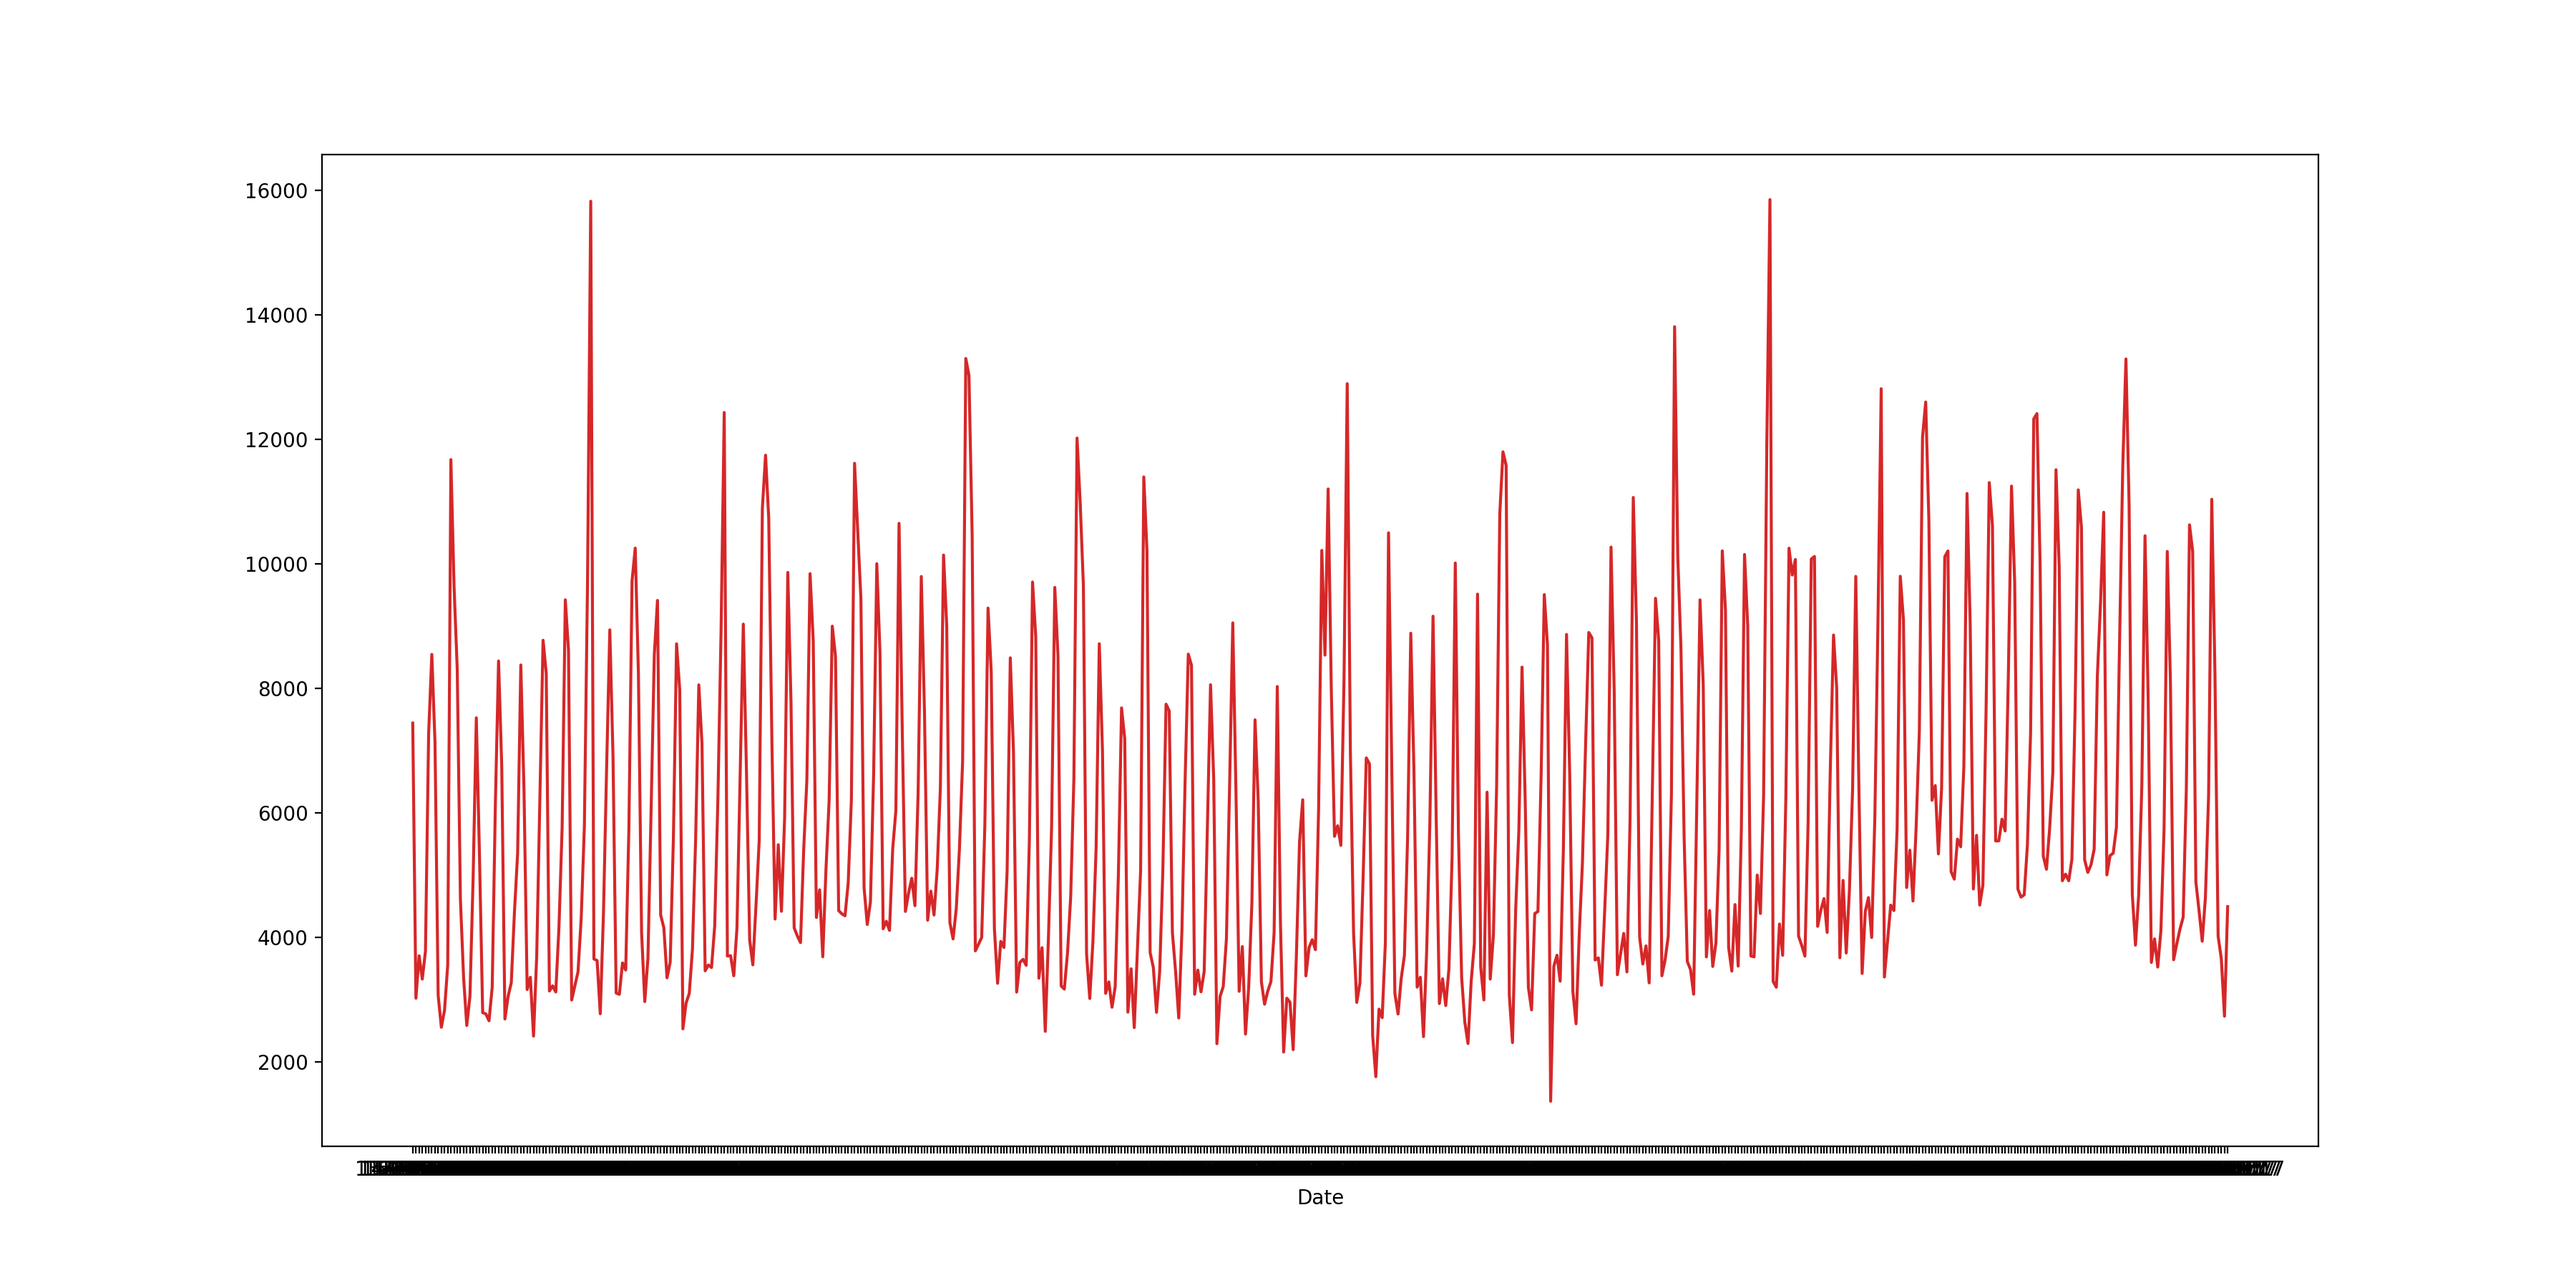
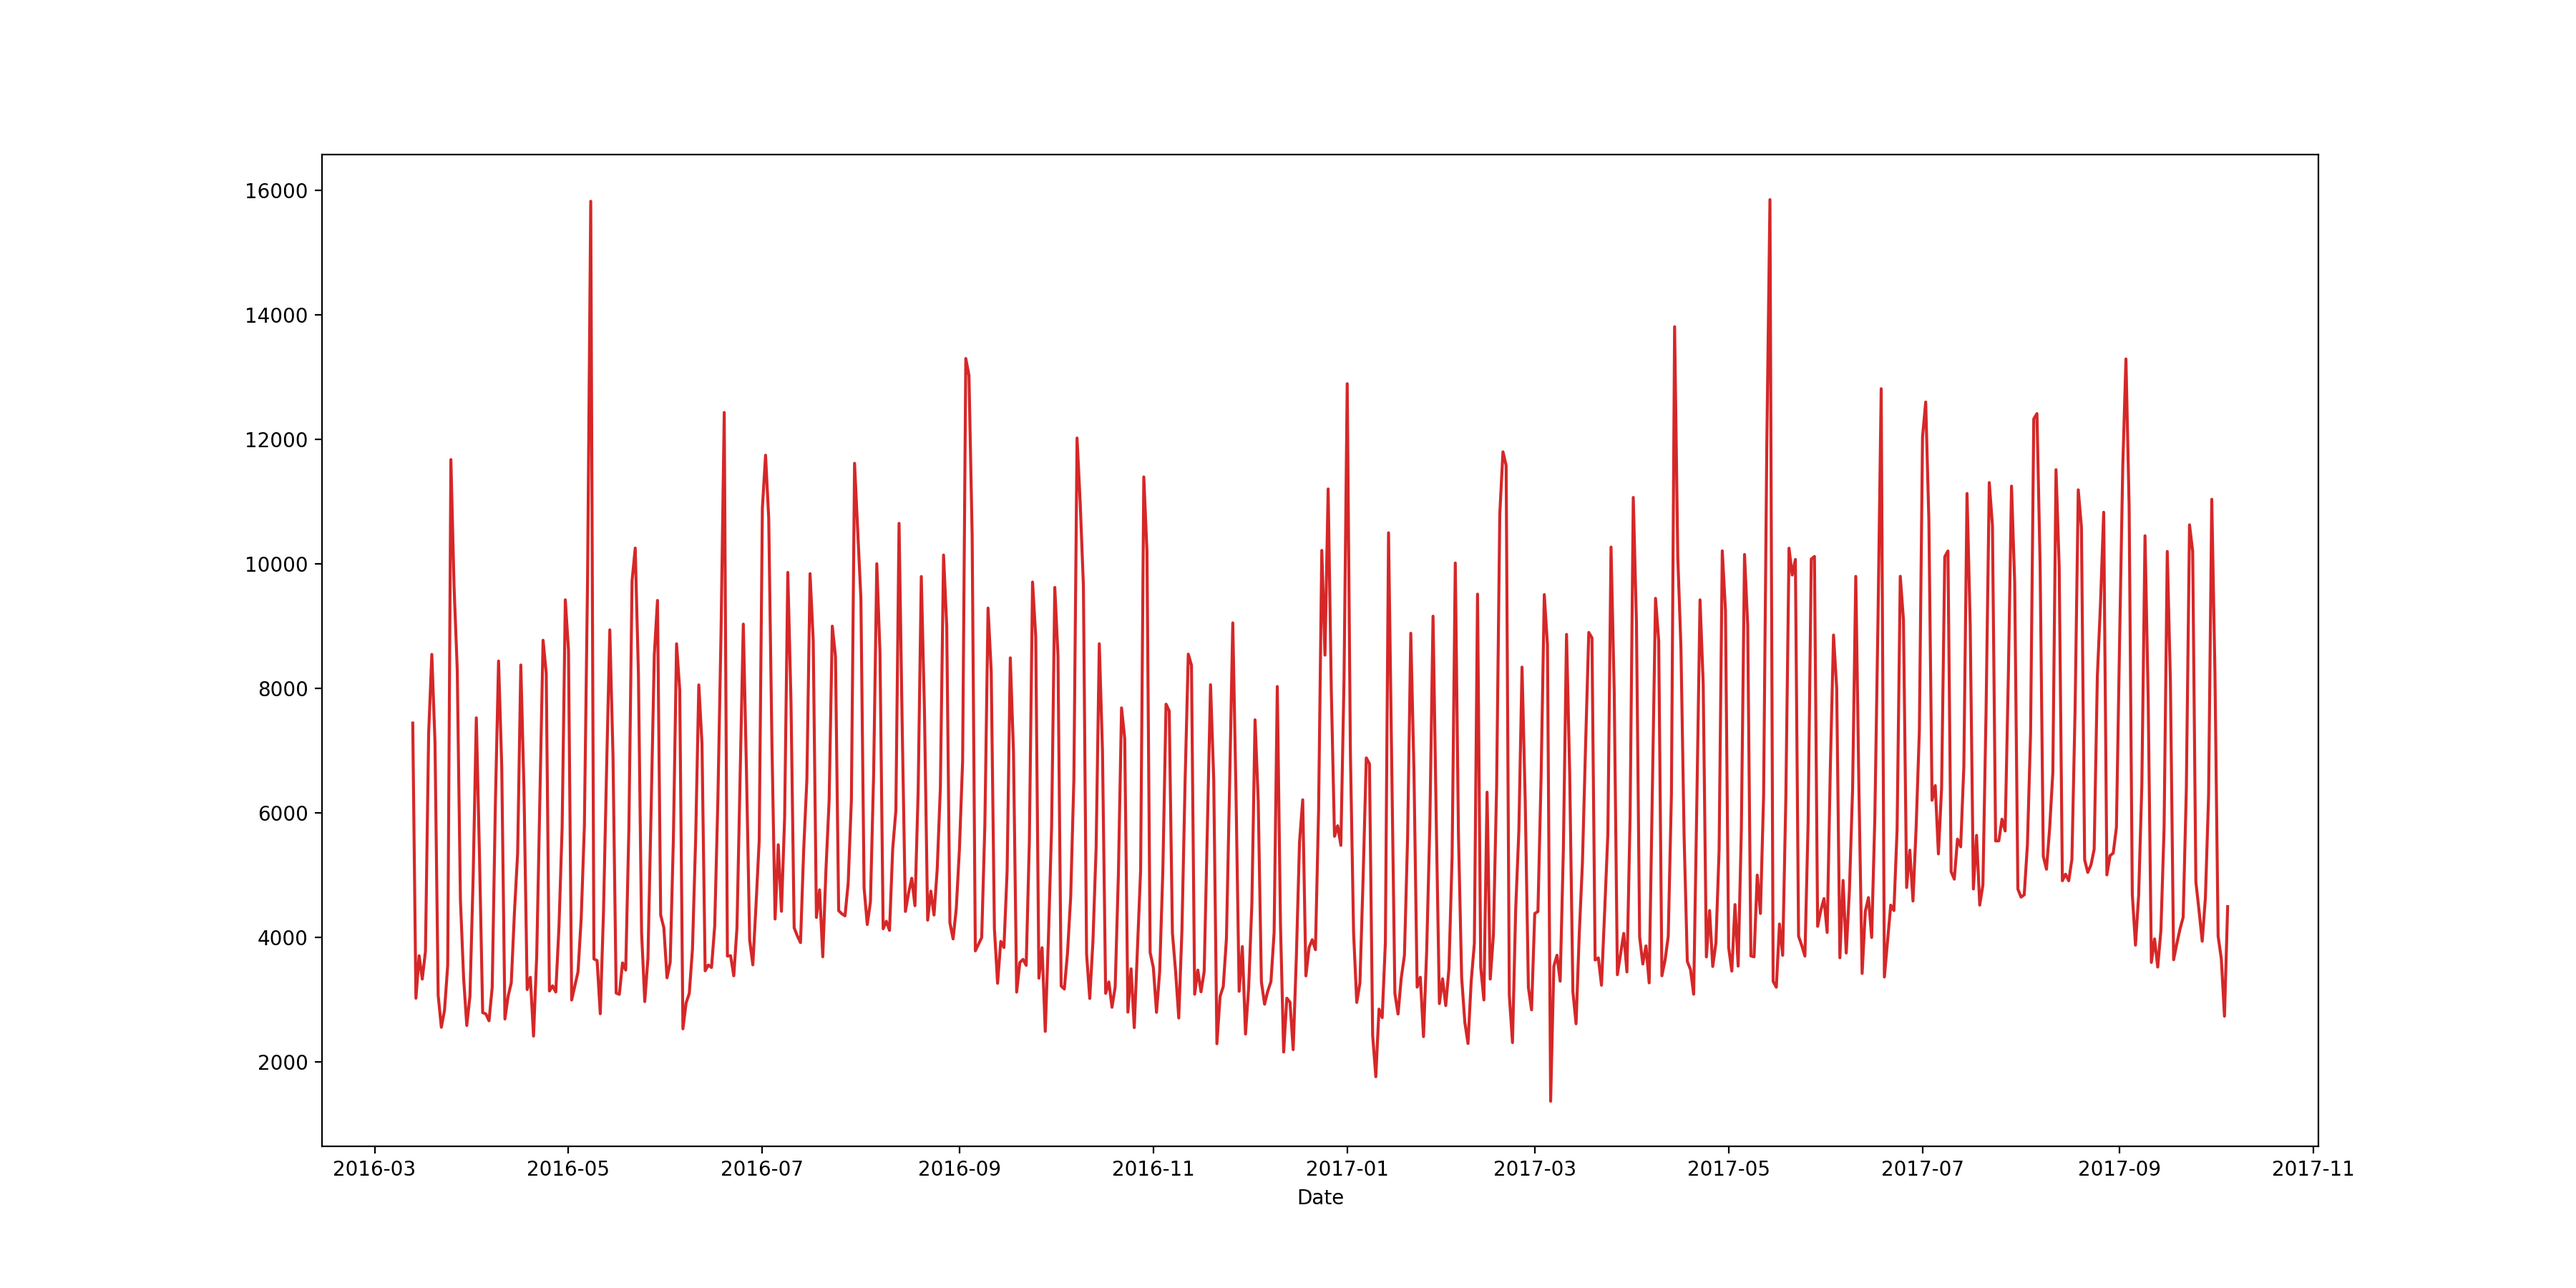
Monthly and weekly sales accumulation

Changed region(s): [[0.1244, 0.8711, 0.9022, 0.9333]]

diff --git a/readData.py b/readData.py
@@ -3,25 +3,22 @@ import matplotlib.pylab as pyl
 import matplotlib.pyplot as plt
 from matplotlib.pylab import rcParams
 from pandas.plotting import autocorrelation_plot
+import acf_plot as ap
 
-salesData = pd.read_excel('total12345.xls',skiprows = [0], usecols = ['date','maxtemp','mdsetotal'])#Read data from file
+ndays = [31,28,31,30,31,30,31,31,30,31,30,31]
+dateParser = lambda x: pd.datetime.strptime(x,'%d-%m-%Y') if pd.notna(x) else nan
+salesData = pd.read_excel('total12345.xls',skiprows = [0], usecols = ['date','maxtemp','mdsetotal'], parse_dates=['date'],date_parser=dateParser)#Read data from file
 salesData.dropna(how = 'all',inplace = True)#Drop all empty rows
 #print(salesData.columns.values)
 salesData.columns = ['date','mdsetotal','maxtemp']#Change column names
+salesData.set_index('date',inplace = True)
 #print(salesData)
-#Set figure parameters
-rcParams['figure.figsize'] = 18, 9
-rcParams['figure.dpi'] = 200
-fig, ax1 = pyl.subplots()
-color = 'tab:red'
-ax1.set_xlabel('Date')
-####
-lns1 = ax1.plot(salesData.loc[:,'date'], salesData.loc[:,'mdsetotal'], color=color,label='Sales')#Plot sales data
-#Show and save plot
-#pyl.show()
-pyl.savefig('Sales.png')
-#Plot acf
-plt.figure()
-autocorrelation_plot(salesData['mdsetotal'])
-#plt.show()
-plt.savefig('Correlation.png')
+#print(salesData[pd.datetime.strptime('13-03-2016','%d-%m-%Y').strftime('%Y-%m-%d')])
+
+dailySales = pd.Series(salesData.loc[:,'mdsetotal'],index = salesData.index)
+weeklySales = dailySales.resample('W').mean()
+monthlySales = dailySales.resample('M').mean()
+#print(weeklySales.values)
+#print(monthlySales.index)
+
+ap.plotacf(weeklySales)

diff --git a/acf_plot.py b/acf_plot.py
@@ -1,0 +1,23 @@
+import pandas as pd
+import matplotlib.pylab as pyl
+import matplotlib.pyplot as plt
+from matplotlib.pylab import rcParams
+from pandas.plotting import autocorrelation_plot
+
+def plotacf(data):
+	#Set figure parameters
+	rcParams['figure.figsize'] = 18, 9
+	rcParams['figure.dpi'] = 200
+	fig, ax1 = pyl.subplots()
+	color = 'tab:red'
+	ax1.set_xlabel('Date')
+	####
+	lns1 = ax1.plot(data.index.values, data.values, color=color,label='Sales')#Plot sales data
+	#Show and save plot
+	pyl.show()
+	#pyl.savefig('Sales.png')
+	#Plot acf
+	plt.figure()
+	autocorrelation_plot(data)
+	plt.show()
+	#plt.savefig('Correlation.png')
